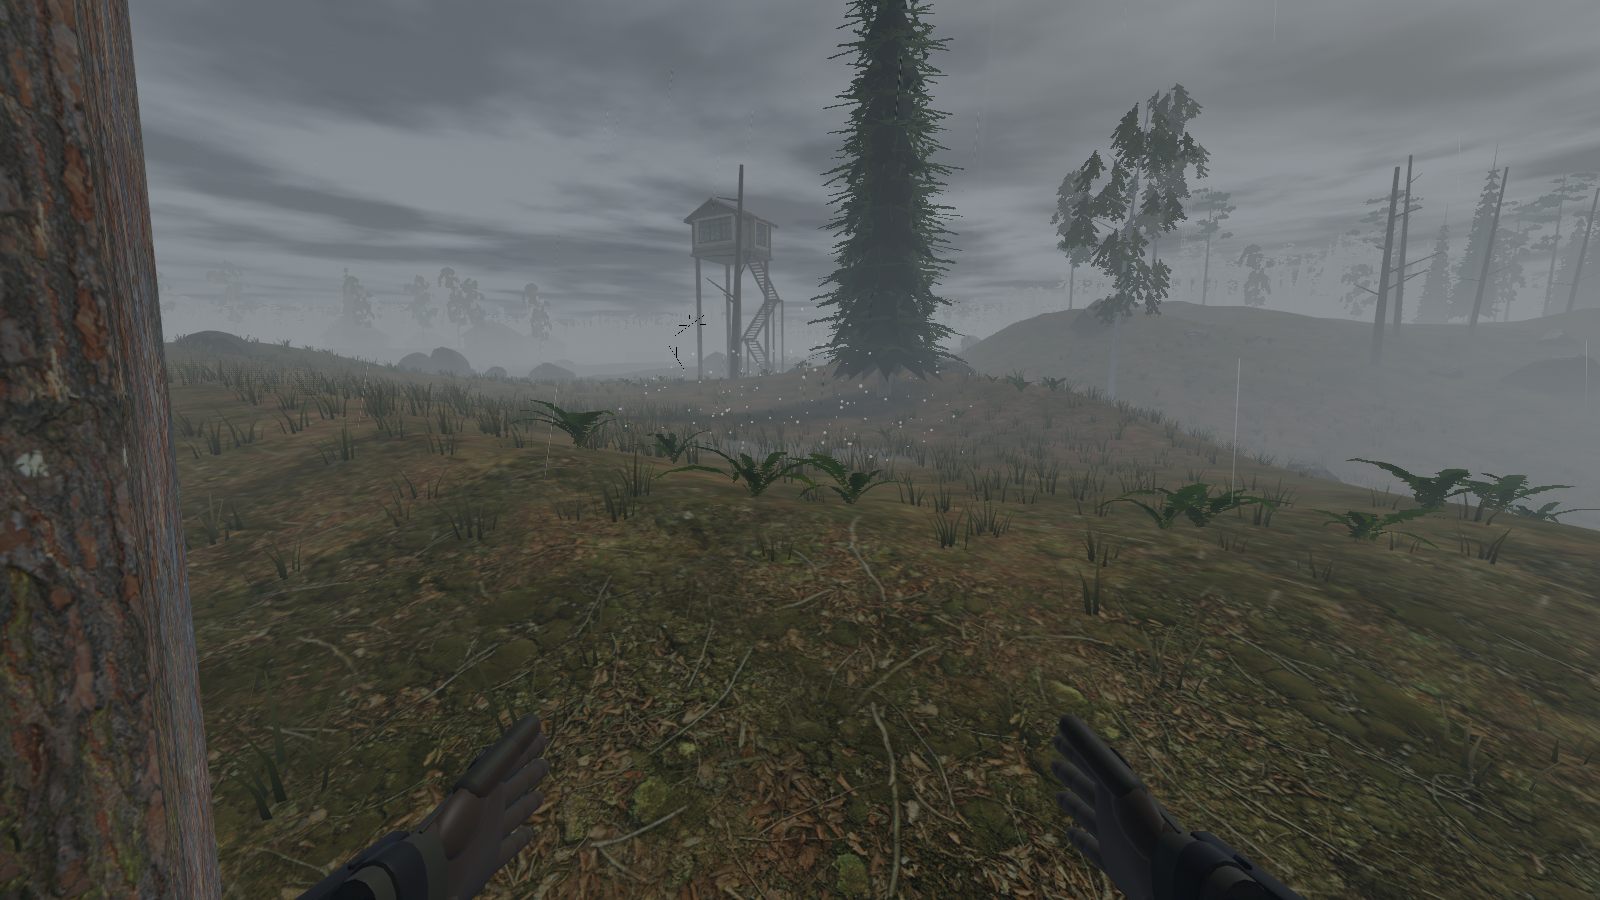
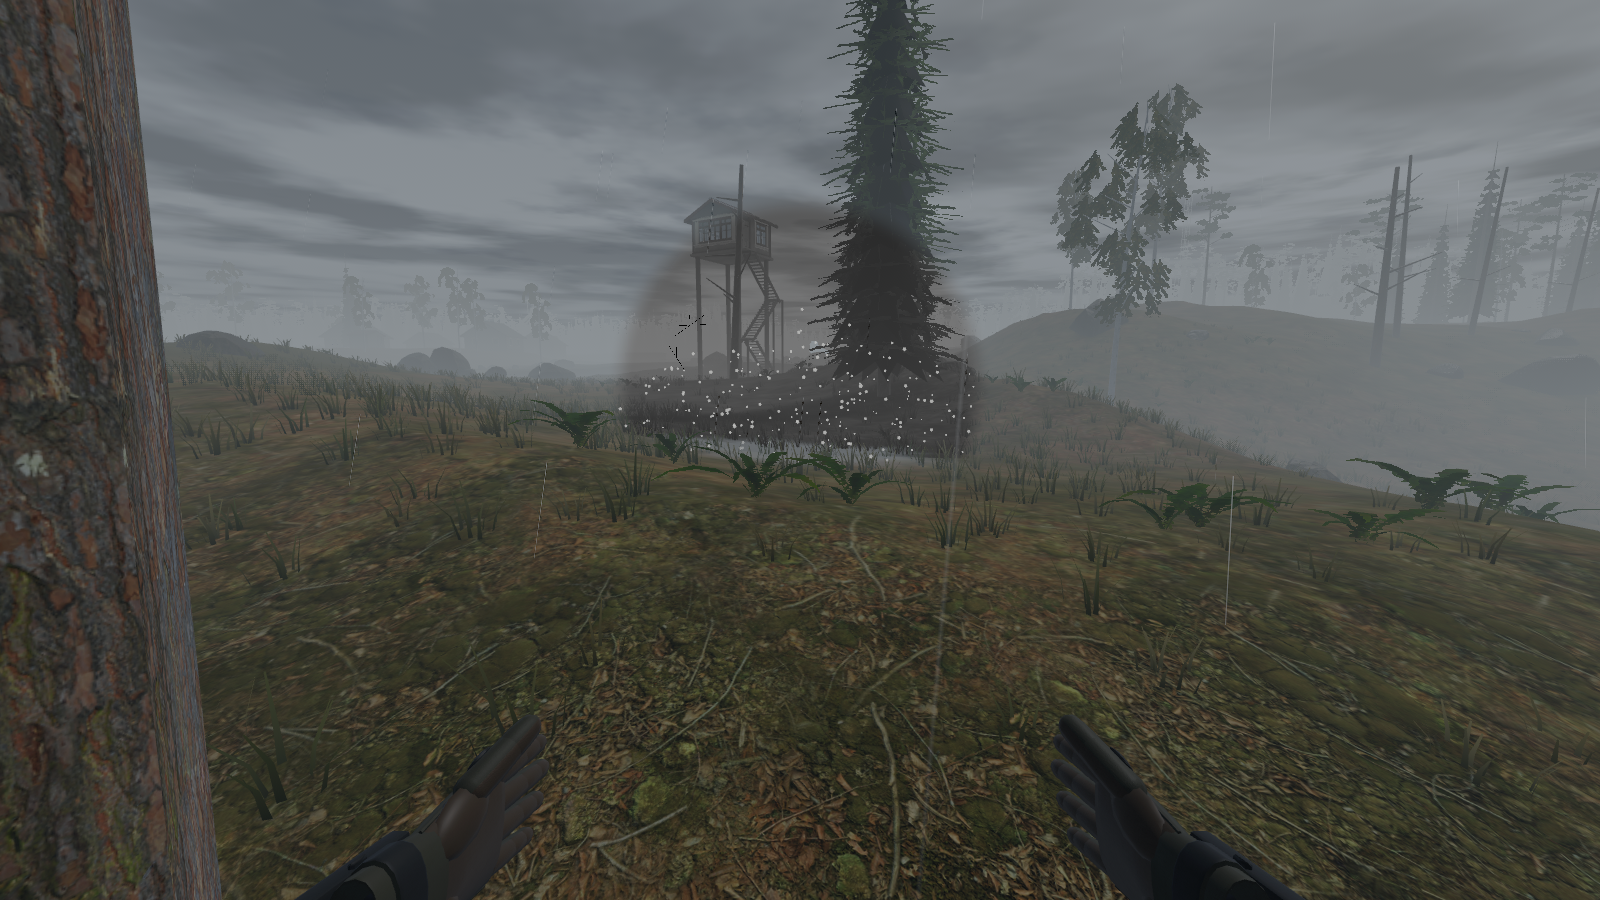
Anomalies: a Hush you can see: colour drained from the world through it
The Hush makes no sound, so its tell is visual: a grey, dimmed bubble
with a firm rim (the haze drains colour from what's behind it), still
pale dust hanging in it, and a pale ground mark. Harvest band counts
Hush deaths too.

Claude-Session: https://claude.ai/code/session_01Jh513kJMQ8gf9L4fAucvBe

Changed region(s): [[0.375, 0.2178, 0.625, 0.4978]]

diff --git a/src/anomaly/visuals.rs b/src/anomaly/visuals.rs
@@ -151,6 +151,9 @@ pub struct HazeParams {
     pub wave: Vec4,
     /// rgb: glow at the heart, a: how much.
     pub tint: Vec4,
+    /// x: how much colour it drains from what's seen through it (a Hush's
+    /// dead air), y: how much it dims it.
+    pub drain: Vec4,
 }
 
 #[derive(Asset, AsBindGroup, Reflect, Debug, Clone)]
@@ -320,7 +323,7 @@ fn init_assets(
         Color::srgba(0.22, 0.26, 0.32, 0.55),
         LinearRgba::rgb(0.0, 0.02, 0.06),
     );
-    let hushed = ground(Color::srgba(0.55, 0.55, 0.53, 0.45), LinearRgba::BLACK);
+    let hushed = ground(Color::srgba(0.7, 0.7, 0.68, 0.6), LinearRgba::BLACK);
     let crushed = ground(
         Color::srgba(0.03, 0.025, 0.035, 0.85),
         LinearRgba::rgb(0.02, 0.0, 0.05),
@@ -545,6 +548,7 @@ fn dress_anomalies(
                         shape: Vec4::new(1.0, 2.0, 0.0, 0.0),
                         wave: Vec4::new(0.06, 1.0, 0.8, 1.0),
                         tint: Vec4::ZERO,
+                        drain: Vec4::ZERO,
                     },
                     Vec3::new(r * 2.2, 4.5, 1.0),
                     0.4,
@@ -564,6 +568,7 @@ fn dress_anomalies(
                         shape: Vec4::new(1.0, 2.4, 0.0, 0.0),
                         wave: Vec4::new(0.5, 1.6, 1.4, 0.0),
                         tint: Vec4::new(0.6, 0.15, 0.02, 0.0),
+                        drain: Vec4::ZERO,
                     },
                     Vec3::new(r * 2.2, 5.0, 1.0),
                     0.0,
@@ -580,6 +585,7 @@ fn dress_anomalies(
                         shape: Vec4::new(0.0, 0.8, 0.0, 0.0),
                         wave: Vec4::new(0.08, 2.5, 3.0, 0.0),
                         tint: Vec4::new(0.1, 0.2, 0.6, 0.0),
+                        drain: Vec4::ZERO,
                     },
                     Vec3::new(r * 1.4, r * 1.4, 1.0),
                     0.0,
@@ -602,6 +608,7 @@ fn dress_anomalies(
                         shape: Vec4::new(2.0, 0.0, 0.0, 0.0),
                         wave: Vec4::new(0.04, 1.5, 0.5, 1.0),
                         tint: Vec4::ZERO,
+                        drain: Vec4::ZERO,
                     },
                     Vec3::splat(r * 0.45),
                     0.0,
@@ -618,6 +625,7 @@ fn dress_anomalies(
                         shape: Vec4::new(0.0, MIRROR_HEIGHT, 0.0, 0.0),
                         wave: Vec4::new(0.3, 0.9, 0.6, 1.0),
                         tint: Vec4::new(0.3, 0.5, 0.7, 0.0),
+                        drain: Vec4::ZERO,
                     },
                     Vec3::new(r * 2.2, r * 2.2, 1.0),
                     0.0,
@@ -627,9 +635,22 @@ fn dress_anomalies(
             // and no light of its own.
             AnomalyKind::Hush => (
                 Some(&a.hushed),
-                vec![soft(7.0, 120, 0.05, Vec3::new(0.62, 0.62, 0.6), 0.75)],
+                vec![soft(7.0, 220, 0.06, Vec3::new(0.85, 0.85, 0.82), 0.9)],
                 (Color::srgb(0.8, 0.8, 0.85), 0.0, 25_000.0, 1.0),
-                None,
+                // Seen through, the world inside goes grey and a little
+                // dim: a bubble with the colour gone out of it.
+                Some((
+                    1.02,
+                    0.2,
+                    HazeParams {
+                        shape: Vec4::new(0.0, 1.2, 0.0, 0.0),
+                        wave: Vec4::new(0.02, 0.5, 0.1, 1.0),
+                        tint: Vec4::ZERO,
+                        drain: Vec4::new(0.95, 0.4, 0.0, 0.0),
+                    },
+                    Vec3::new(r * 2.3, r * 2.3, 1.0),
+                    0.0,
+                )),
             ),
         };
         commands

diff --git a/scripts/harvest_band.py b/scripts/harvest_band.py
@@ -15,7 +15,7 @@ import json
 import os
 import sys
 
-KINDS = {"Lift", "Burner", "Snare", "Well", "Mirror"}
+KINDS = {"Lift", "Burner", "Snare", "Well", "Mirror", "Hush"}
 # Deaths in anomalies per deliberate dive: some, never most.
 MAX_DEATHS_PER_DIVE = 0.2
 # Stones brought out per deliberate dive.
